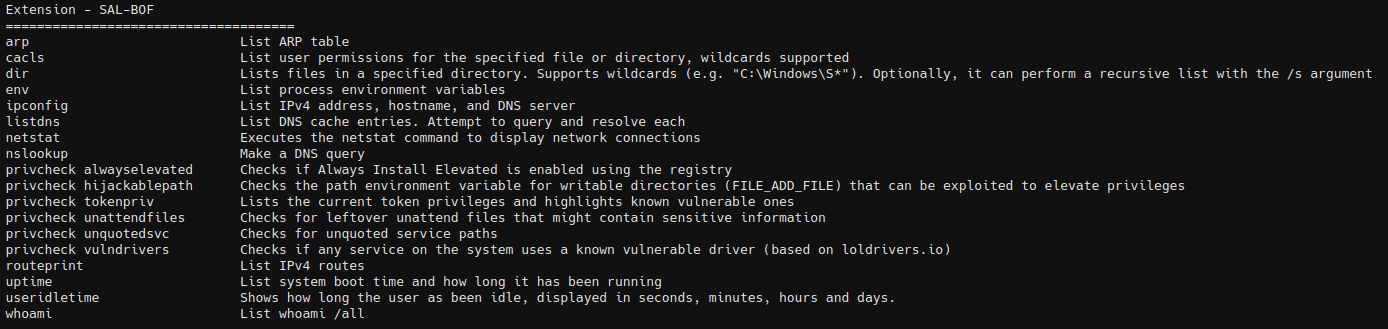
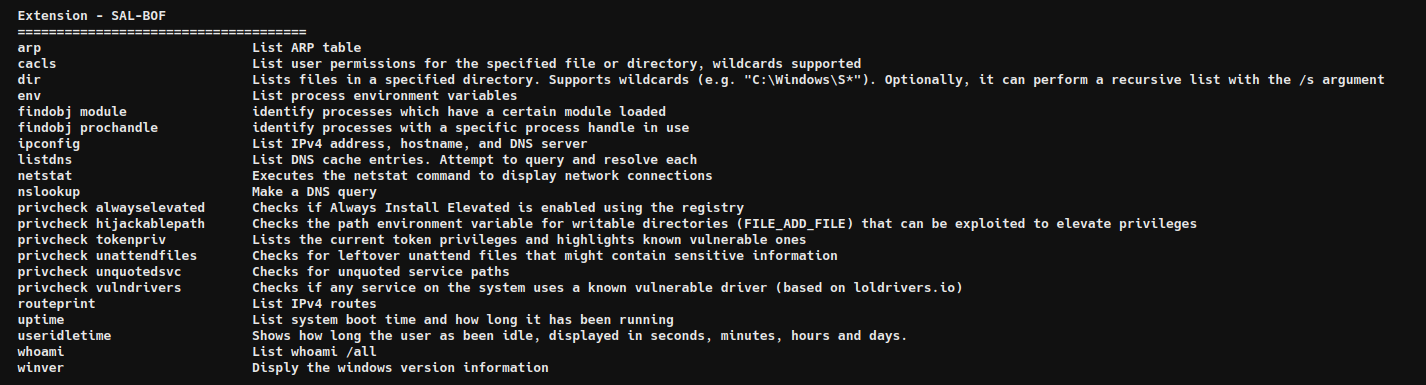
add findobject and winver

Changed region(s): [[0.0, 0.0, 0.9914, 0.9726]]

diff --git a/SAL-BOF/README.md b/SAL-BOF/README.md
@@ -36,6 +36,21 @@ List process environment variables
 env
 ```
 
+## findobj
+
+Enumerate processes for specific modules or process handles. Taken from [outflanknl/C2-Tool-Collection](https://github.com/outflanknl/C2-Tool-Collection/tree/main/BOF/FindObjects)
+
+```
+findobj <objtype> <object>
+```
+
+| Module       | Description                                                  |
+| ------------ | ------------------------------------------------------------ |
+| `module`     | Enumerate processes for specific loaded modules (eg. `winhttp.dll`, `amsi.dll` or  `clr.dll`). |
+| `prochandle` | Enumerate processes for specific process handles (eg. `lsass.exe`). |
+
+![](./_img/02.png)
+
 ## ipconfig
 
 List IPv4 address, hostname, and DNS server
@@ -60,7 +75,9 @@ Make a DNS query
 nslookup <domain> [server] [type>]
 ```
 
-# privcheck
+
+
+## privcheck
 
 BOFs to detect common privilege escalation paths in Windows. This is taken from [ostrichgolf/PrivCheck](https://github.com/ostrichgolf/PrivCheck) which was originally forked from [mertdas/PrivKit](https://github.com/mertdas/PrivKit). PrivCheck currently includes the following modules:
 
@@ -85,7 +102,7 @@ List IPv4 routes
 
 ```
 routeprint
-``` 
+```
 
 ## uptime
 
@@ -111,8 +128,17 @@ List whoami /all
 whoami
 ```
 
+## winver
+
+Display the version of Windows that is running, the build number and patch release.
+
+```
+winver
+```
+
 
 
 ## Credits
 * CS-Situational-Awareness-BOF - https://github.com/trustedsec/CS-Situational-Awareness-BOF
 * PrivCheck - https://github.com/ostrichgolf/PrivCheck
+* C2-Tool-Collection - https://github.com/outflanknl/C2-Tool-Collection/
